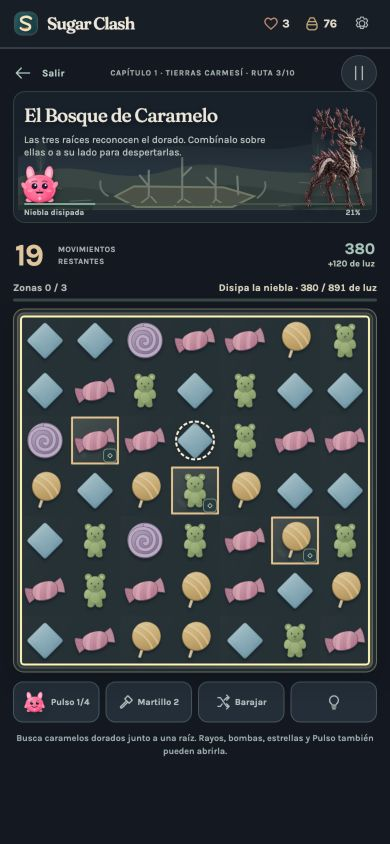
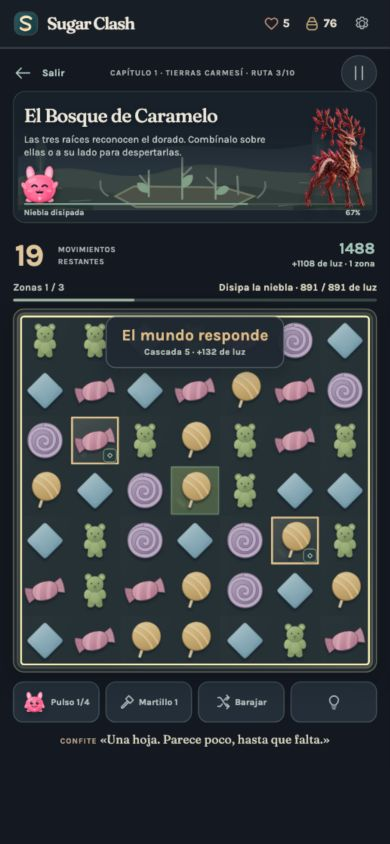
Finish Confite personality, living scenes, and responsive play feedback

diff --git a/index.html b/index.html
@@ -1557,6 +1557,8 @@ button:focus-visible,a:focus-visible{outline:3px solid #a8cbc4;outline-offset:4p
 
 
 @media(max-width:370px) and (max-height:740px){.game-page:has(.has-play-scene){padding-top:2px;padding-bottom:3px}.game-layout:has(.has-play-scene){gap:3px}.has-play-scene+.board-side .board-tools{margin-top:5px}}
+
+@media(min-width:761px) and (max-height:850px){.game-page{padding-top:8px}.board-side{max-width:clamp(280px,calc(100dvh - 320px),470px)}}
 /* PLAY_CHARM_STYLE_END */
 </style>
 </head>

diff --git a/docs/art/PLAY_FEEDBACK.css b/docs/art/PLAY_FEEDBACK.css
@@ -12,3 +12,5 @@
 @media(prefers-reduced-motion:reduce){.sc-companion-react{animation:none!important}.sc-beam,.sc-restoration-thread{display:none}}
 
 @media(max-width:370px) and (max-height:740px){.game-page:has(.has-play-scene){padding-top:2px;padding-bottom:3px}.game-layout:has(.has-play-scene){gap:3px}.has-play-scene+.board-side .board-tools{margin-top:5px}}
+
+@media(min-width:761px) and (max-height:850px){.game-page{padding-top:8px}.board-side{max-width:clamp(280px,calc(100dvh - 320px),470px)}}

diff --git a/docs/PLAY_CHARM_QA.md b/docs/PLAY_CHARM_QA.md
@@ -1,0 +1,32 @@
+# El mundo responde · cierre de la iteración
+
+Jose pidió «Todavía le falta gracia», después «Sigue» y «Termina». La respuesta se concentra en la personalidad durante la partida, conservando el concepto, el contraste oscuro/color y el logo sobrio.
+
+## Implementado
+
+- Cuatro dioramas originales de jardín, camino, cauce y hogar sustituyen la cabecera de campaña. Cambian geometría cuando la restauración real pasa de cero a alguna zona, a dos tercios y a completa. Confite y el guardián comparten ese lugar.
+- Diez aperturas para T1 y 39 reacciones posibles. Confite comenta hechos observados: zona recuperada, poder creado, poderes encadenados, cascada, Pulso disponible o últimos movimientos. Una combinación corriente conserva el silencio. Como máximo tres apartes por tramo activo, separados por dos jugadas válidas; la conclusión del lugar tiene una excepción. Pistas explícitas y automáticas pueden sustituir el aparte.
+- Rayos direccionales, expansión de bomba y un hilo hacia la escena distinguen poderes y restauración. El sonido de restauración tiene su propio motivo sintetizado. No hay animación ambiental continua.
+- La última jugada mantiene un resumen con su luz y zonas recuperadas o cascadas. El cierre de victoria/derrota actualiza el resumen sin añadir otra frase. Crear un poder y activarlo son hechos distintos; quitar una capa no se celebra como zona recuperada.
+- El martillo reinicia el contador transitorio de brotes para no conservar el texto de la jugada anterior. Reglas, metas, premios, vidas y guardados permanecen vigentes.
+
+El arte y catálogo de integración están en `docs/art/PLAY_*`; el runtime los contiene inline en `index.html`. No se descargan esos archivos al jugar. El worker usa `sugarclash-renacer-v6`, con el mismo catálogo de recursos locales.
+
+## Validación realizada
+
+- `SYNTAX OK` y **110/110 pruebas**: 97 anteriores y 13 regresiones de respuesta, resumen, silencio, movimiento reducido, límites, estado obsoleto y limpieza. `git diff --check` correcto.
+- Navegador con origen aislado `http://127.0.0.1:4204/`, separado de producción y del puerto 4177. Niveles 1 y 2 ganados mediante controles y jugadas válidas, sin escribir estrellas ni forzar victoria. En el nivel 3, creación de bomba y activación con el martillo de QA: una zona restaurada realmente, escena fase 1 y resumen de +1108 de luz / 1 zona tras sus cascadas.
+- Emulación **320×640**: tablero, herramientas e introducción completos; final del texto en 628.69 px y sin scroll horizontal. **390×844**: escena, objetivos, tablero y reacción legibles. No es una prueba de teléfono físico.
+- **1280×720**: controles hasta 671.40 px, introducción hasta 716.79 px, sin scroll horizontal. Ajustado el ancho del tablero y el margen superior para ventanas de poca altura.
+- Consola sin errores ni advertencias antes de la prueba offline. Después de detener el servidor propio, la recarga abrió la portada y permitió entrar al nivel 3 con 49 piezas y el diorama nuevo desde la caché.
+
+No se ha repetido el recorrido 80/80 para esta capa de presentación. El informe de restauración anterior conserva su versión y alcance; esta iteración no cambia reglas ni balance. Las pruebas automáticas y estas partidas de QA no establecen diversión o retención con jugadores.
+
+## Evidencia
+
+- [Entrada a 320×640](qa/play-charm-start-320.png).
+- [Restauración real y Confite a 390×844](qa/play-charm-board-390.png).
+- [Escritorio](qa/play-charm-desktop.png).
+- [Recarga con servidor apagado](qa/play-charm-offline.png).
+
+La publicación de esta versión se registra separadamente en `DEPLOYMENT_PLAY_CHARM.md` y su informe JSON una vez comprobado el despliegue.

diff --git a/docs/CLAUDE_HANDOFF.md b/docs/CLAUDE_HANDOFF.md
@@ -132,3 +132,15 @@ El combo global de dos estrellas se comunica explícitamente mediante `globalPri
 ## Publicación actual confirmada · 24 de octubre de2026
 
 El runtime de restauración está publicado como `fb9388f` en https://sugarclash-web.vercel.app/. EstadoREADY, raíz y ocho archivos críticos comprobados (la raíz se verifica aparte);40 recursos de precachéHTTP200. [Informe](DEPLOYMENT_RESTORATION.md). La guía y los informes pueden tener commits documentales posteriores sin cambiar el runtime publicado. Las comprobaciones humanas siguen pendientes. No volver a desplegar sólo para repetir la evidencia.
+
+## Iteración posterior · El mundo responde
+
+Jose pidió más gracia y cerrar la mejora. Está integrada en el runtime con110 pruebas aprobadas. El informe [PLAY_CHARM_QA.md](PLAY_CHARM_QA.md) distingue las partidas reales de QA, las medidas de320×640/390×844/1280×720 y la recarga sin servidor. [DEPLOYMENT_PLAY_CHARM.md](DEPLOYMENT_PLAY_CHARM.md) identifica la publicación de esta etapa; fb9388f y su informe anterior permanecen como historial.
+
+- `PLAY_SCENE_START/END`: `playSceneState(g)`, `playSceneArt(kind,progress)`, `playScene(g)` y `updatePlayScene(g,host?)`. Geometría por restauración real; el host conserva identidad y sólo reemplaza SVG cuando cambia fase o tipo. `renderGame()` coloca escena/Confite y `updateGameHUD()` actualiza su estado. Sin guardar ni conceder progreso.
+- `FEEDBACK_START/END`: `feedbackBeginTurn(g)` captura la jugada válida o martillo; `feedbackHit()` recoge hechos antes de la caída; `feedbackTurn(g,quiet=false)` genera un único resumen y una reacción elegible al terminar. `finishBoard()` llama a la variante quiet después de validar y antes de cerrar. `feedbackPower()` y `feedbackRestoration()` dibujan efectos finitos; `feedbackCancel()` descarta turno, historial, clases, partículas, timers y voces al abandonar/cambiar/ocultar.
+- `PLAY_LINES` contiene39 reacciones y `PLAY_OPENINGS` diez aperturas de T1. Selección determinista sin RNG; tres apartes por tramo activo y separación de dos jugadas. Completar el lugar puede añadir una observación si falta la otra meta. No se integró el catálogo propuesto de frases de derrota.
+- La voz se muestra en `board-tip` y se identifica con `data-speaker`. `setTip()` lo limpia para instrucciones/pistas posteriores; la regla del encuentro permanece en la cabecera. Ocultar la página descarta también el historial efímero. No persistir frases vistas.
+- Los archivos `docs/art/PLAY_*` conservan arte, CSS y texto de integración. El runtime no los solicita por red. El worker usa **renacer-v6**; se conserva el catálogo anterior de40 recursos. No se añadieron dependencias, reglas, premios ni campos del guardado.
+
+Mantén el reinicio de `g.restoredThisTurn` al empezar martillo; evita atribuir al intento actual el brote de una jugada anterior. Las13 pruebas nuevas en `tests/feedback.test.cjs` cubren separación de creación/activación, HP parcial, resumen quiet, categorías agotadas, silencio, movimiento reducido y limpieza. El recorrido80/80 anterior valida sus reglas y su versión; no se ha repetido ni presentado como una nueva prueba de diversión para esta capa.

diff --git a/VISUAL_STYLE.md b/VISUAL_STYLE.md
@@ -24,6 +24,8 @@ La prueba humana propuesta está en [RESTORATION_PLAYTEST.md](docs/RESTORATION_P
 
 ### Identidad y tono
 
+La iteración posterior **El mundo responde** incorpora cuatro dioramas originales dentro de la cabecera de campaña. Puente, cauce, jardín y hogar reparan su geometría según zonas realmente recuperadas; Confite comparte el lugar con el guardián y reacciona a jugadas concretas. Mantener la regla visible y el silencio entre apartes. Impactos direccionales, motivo sonoro de restauración y resumen de última jugada acompañan resultados reales. [Implementación y evidencia](docs/PLAY_CHARM_QA.md):110 pruebas, móvil/escritorio y recarga offline con caché renacer-v6. La publicación de esta iteración se identifica en [su informe](docs/DEPLOYMENT_PLAY_CHARM.md).
+
 Dulcelandia es un reino de confitería que perdió su color. Dulce Roja y Confite restauran guardianes, caminos y un hogar. La escena oscura o descolorida muestra lo perdido; el color que vuelve es una consecuencia de jugar. El misterio, la memoria y la revelación final de Confite conservan su lugar en la historia.
 
 Un acabado casual cuidado significa formas legibles, ilustración con intención, respuesta clara y una siguiente acción comprensible. El tono es expresivo sin lenguaje de bebé ni apariencia general de juguete. Confite mantiene su SVG y emociones como compañero pequeño dentro del juego; el logo se sostiene por sus letras. No incorporar mascotas, letras de burbuja o glaseado inflado a la marca.

diff --git a/CLAUDE.md b/CLAUDE.md
@@ -10,4 +10,6 @@ Las decisiones nuevas de Jose prevalecen. El 23 de octubre autorizó coherencia 
 
 La campaña ahora exige su meta habitual y todas las zonas restauradas: `campaignWon(g)` valida ambas. Consulta `docs/RESTORATION_ENCOUNTERS.json` y las APIs del bloque `RESTORATION_START` en la guía operativa antes de cambiar encuentros. Las marcas pertenecen al suelo y no caen con las piezas. El atlas SVG de restauración está integrado y cacheado en renacer-v5; consulta docs/RESTORATION_QA.md. La validación con personas sigue pendiente.
 
+La iteración posterior «El mundo responde» añade dioramas de restauración, presencia y reacciones de Confite, impactos de poderes y resumen de jugada. Está integrada:110 pruebas, revisión móvil/escritorio y recarga offline. Cache vigente:renacer-v6. Consulta docs/PLAY_CHARM_QA.md y la publicación de esta iteración en docs/DEPLOYMENT_PLAY_CHARM.md; fb9388f es la publicación anterior. La memoria de respuesta es transitoria en scFeedback, no en el guardado. Los archivos docs/art/PLAY_* son fuentes de integración; el runtime sigue inline.
+
 No alteres los datos de Jose ni escribas `sugarclash_save_v1`. Consulta [la guía operativa de colaboración](docs/CLAUDE_HANDOFF.md) cuando necesites arrancar, localizar funciones, probar o publicar. Ese documento y los informes largos son de consulta; no los cargues todos por defecto.
